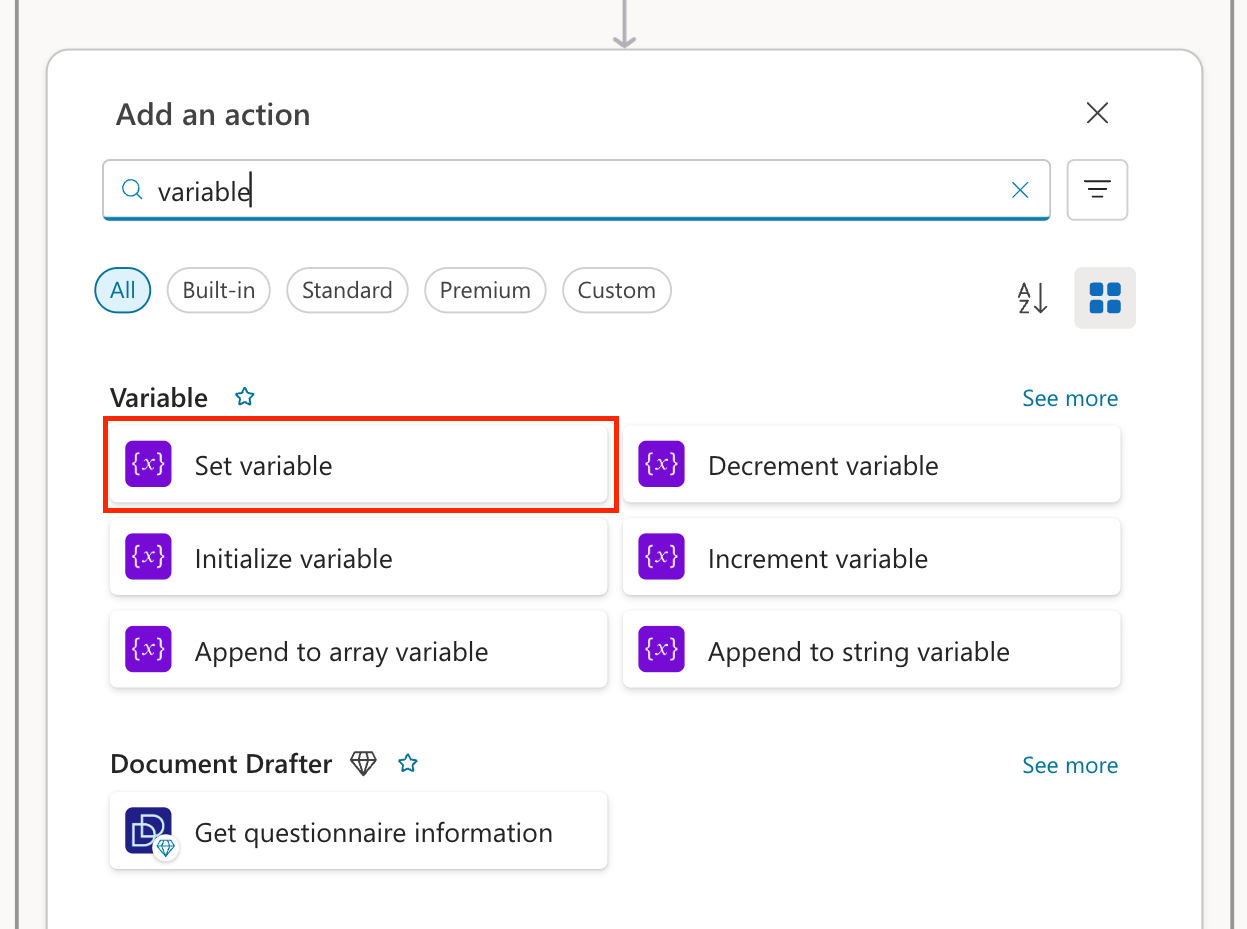
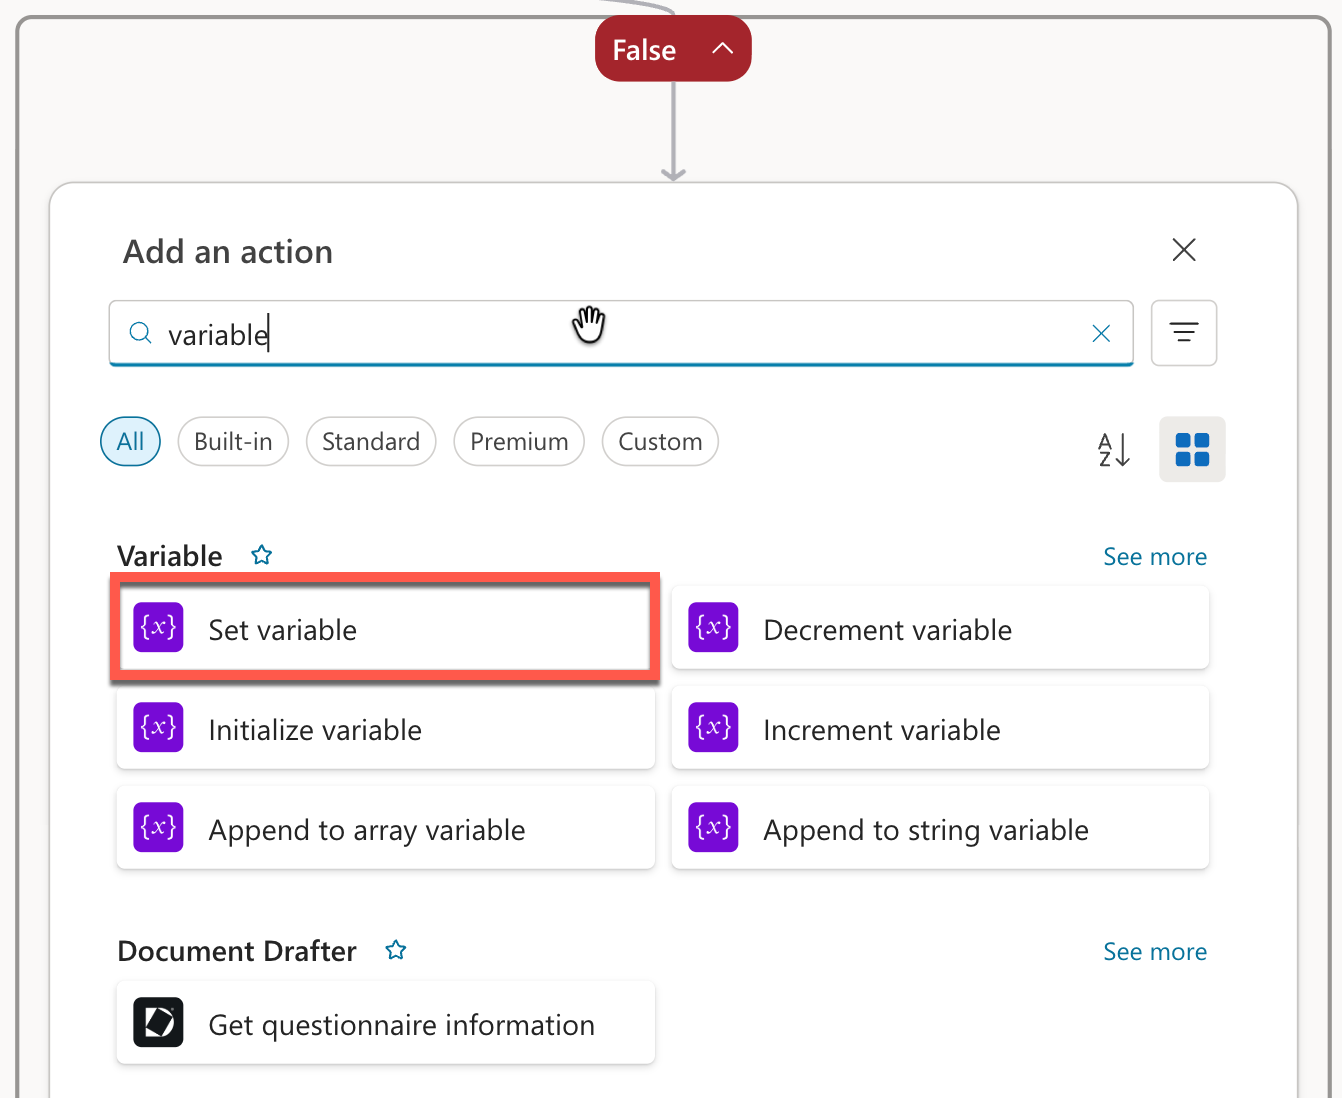
Update lab

diff --git a/lab/instructions/04-Add-An-Agent-Flow-For-Approving-Warranty-Claims.md b/lab/instructions/04-Add-An-Agent-Flow-For-Approving-Warranty-Claims.md
@@ -183,7 +183,7 @@ Now that we have an AI prompt that can classify warranty claims and extract key 
 
 1. Search for ```variable``` and select the **Set Variable** action.
 
-    ![Set Variable](./assets/FlowYesSetVarSelect.png)
+    ![Set Variable](./assets/FlowNoSetVarSelect.png)
 
 1. In the **Name** Dropdown select the **Approval Outcome** variable.  In the **Value** input type ```Needs Exception Approval```. This will return back to the user informing them it couldn't be auto-approved and escalation is needed
 
@@ -193,7 +193,7 @@ Now that we have an AI prompt that can classify warranty claims and extract key 
 
 1. Search for ```variable``` and select the **Set Variable** action
 
-    ![Set Variable](./assets/FlowNoSetVarSelect.png)
+    ![Set Variable](./assets/FlowSetVarSelect.png)
 
 1. In the **Name** Dropdown select the **Approval Message** variable.  In the **Value** input type ```The Warranty Claim has been reviewed and it is not within the approved warranty policy guidelines. You can request a review for an exception if you'd like.```
 
